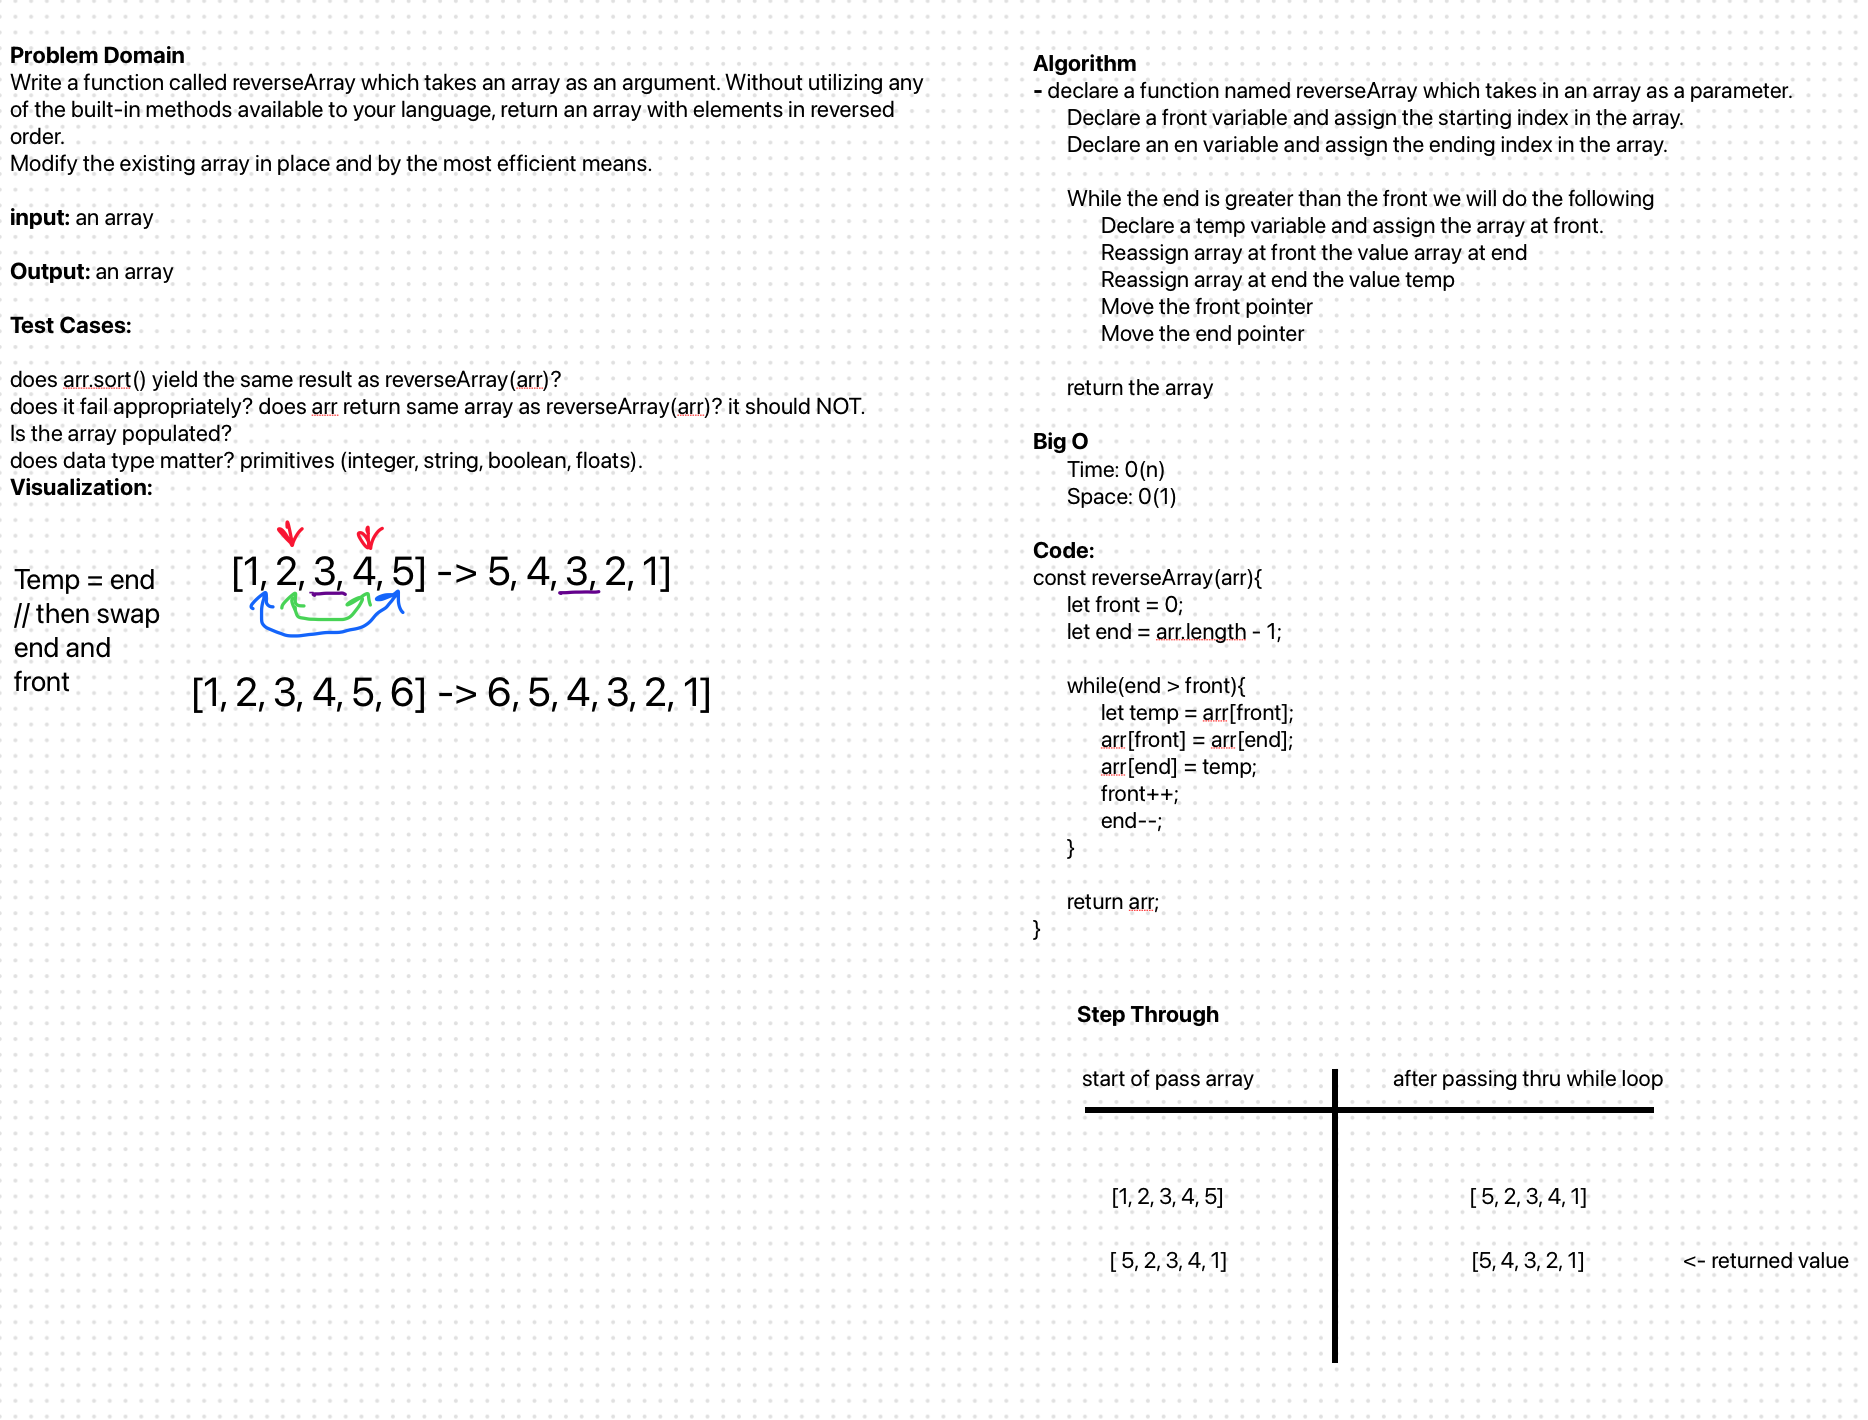
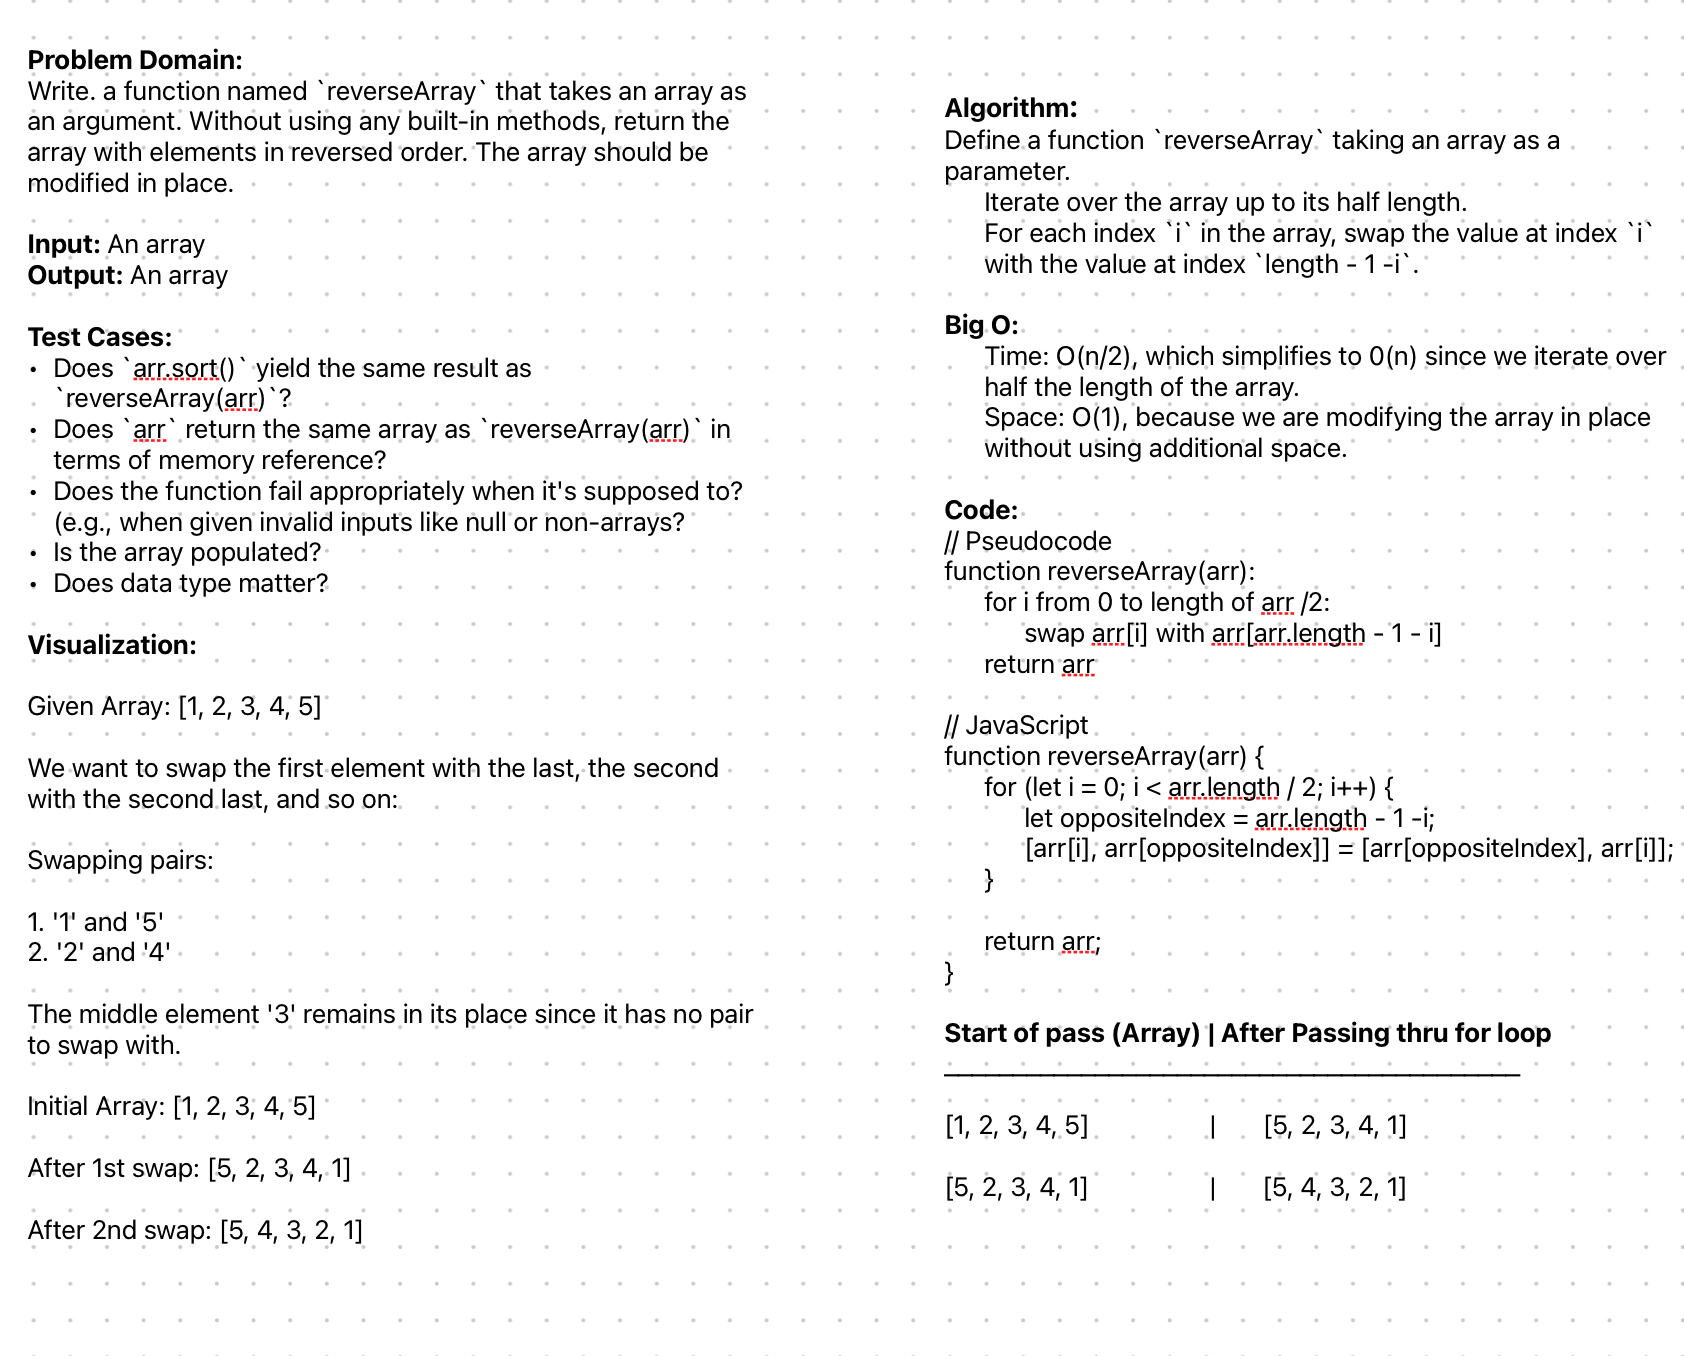
class 01 whiteboard challenge completed

diff --git a/javascript/arrayReverse/README.md b/javascript/arrayReverse/README.md
@@ -6,7 +6,27 @@ Write a function called `reverseArray` which takes an array as an argument. With
 ![array reverse whiteboard](../assets/reverseArray.png);
 
 ## Approach & Efficiency
-<!-- What approach did you take? Why? What is the Big O space/time for this approach? -->
+
+I chose an in-place iterative approach to reverse the array. I used the inherent structure of the array and swapped outer elements moving inward. By halting the iteration at the midpoint of the array we can avoid redundant operations as the middle suggests the array is reversed. 
+
+The Big O for time is O(n/2) which simplifies to O(n) since we iterate over half the length of the array. Space complexity is O(1) because we are modifying the array in place without using additional space. 
 
 ## Solution
-<!-- Show how to run your code, and examples of it in action -->
+To run the code, we can use any JavaScript environment. 
+
+Here's how to use the `reverseArray` function:
+
+```js
+    function reverseArray(arr) {
+    for (let i = 0; i < arr.length / 2; i++) {
+        let oppositeIndex = arr.length - 1 - i;
+        [arr[i], arr[oppositeIndex]] = [arr[oppositeIndex], arr[i]];
+    }
+    return arr;
+}
+
+// Examples:
+console.log(reverseArray([1, 2, 3, 4, 5])); // Outputs: [5, 4, 3, 2, 1]
+console.log(reverseArray([1, 2, 3, 4]));   // Outputs: [4, 3, 2, 1]
+
+```
